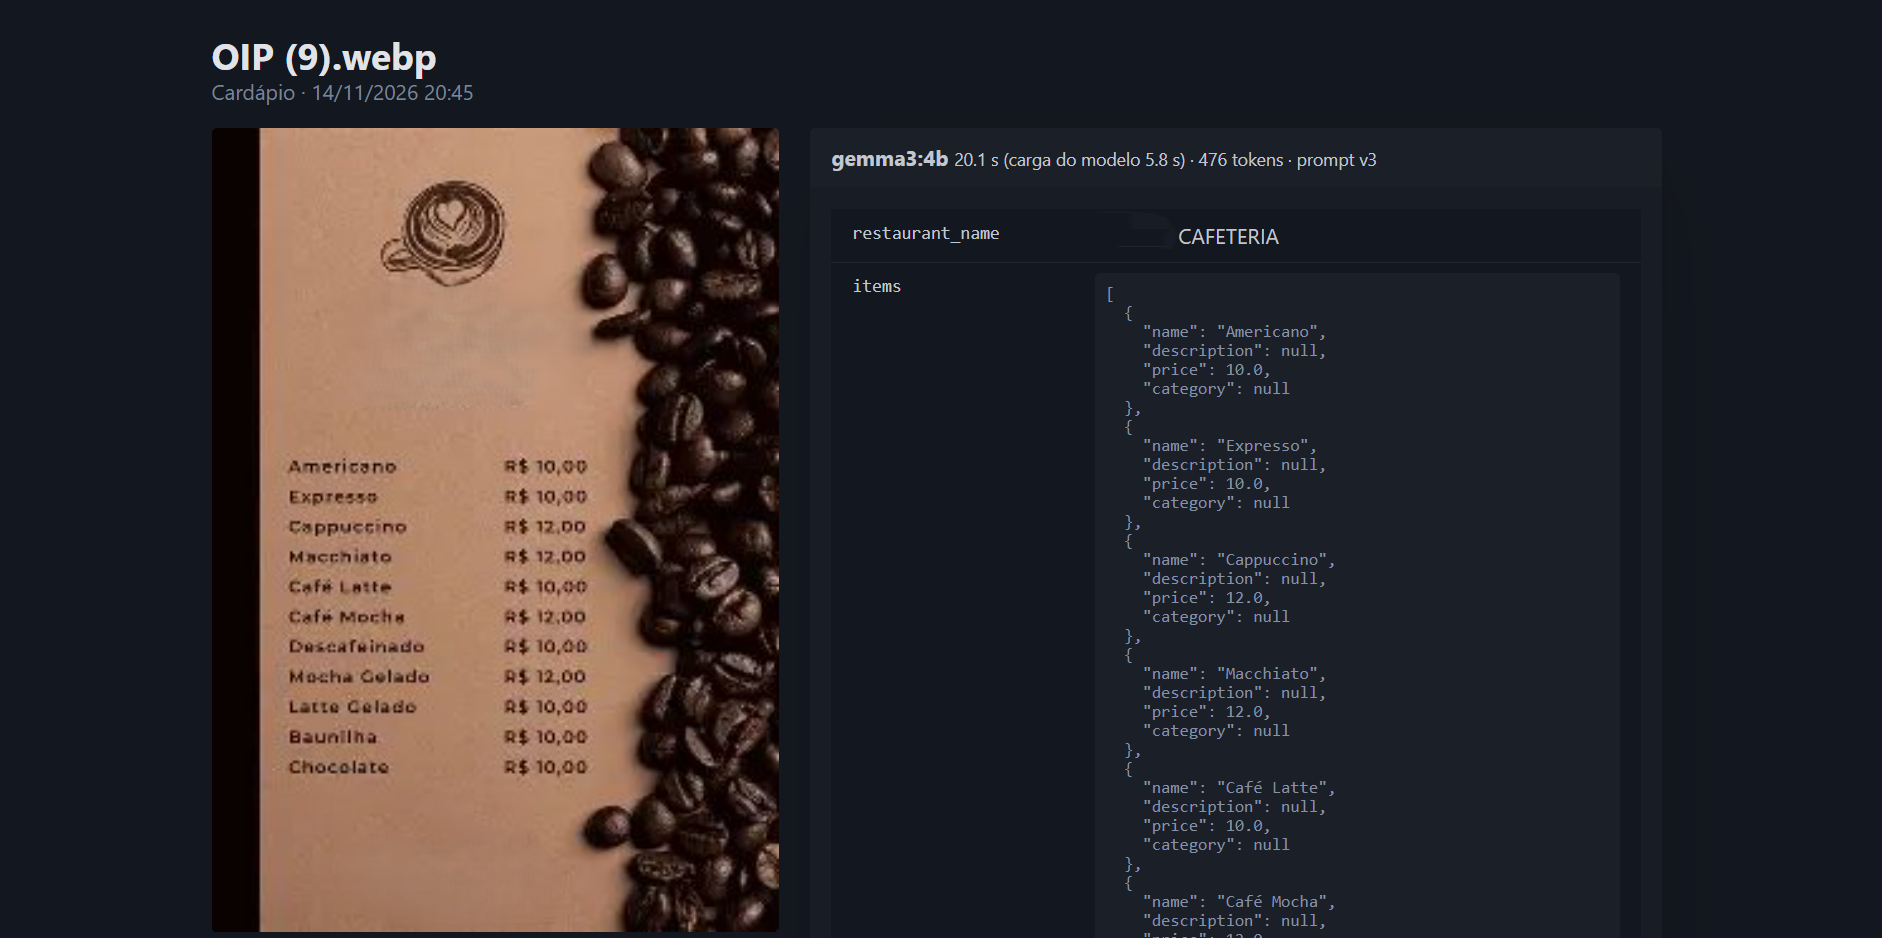
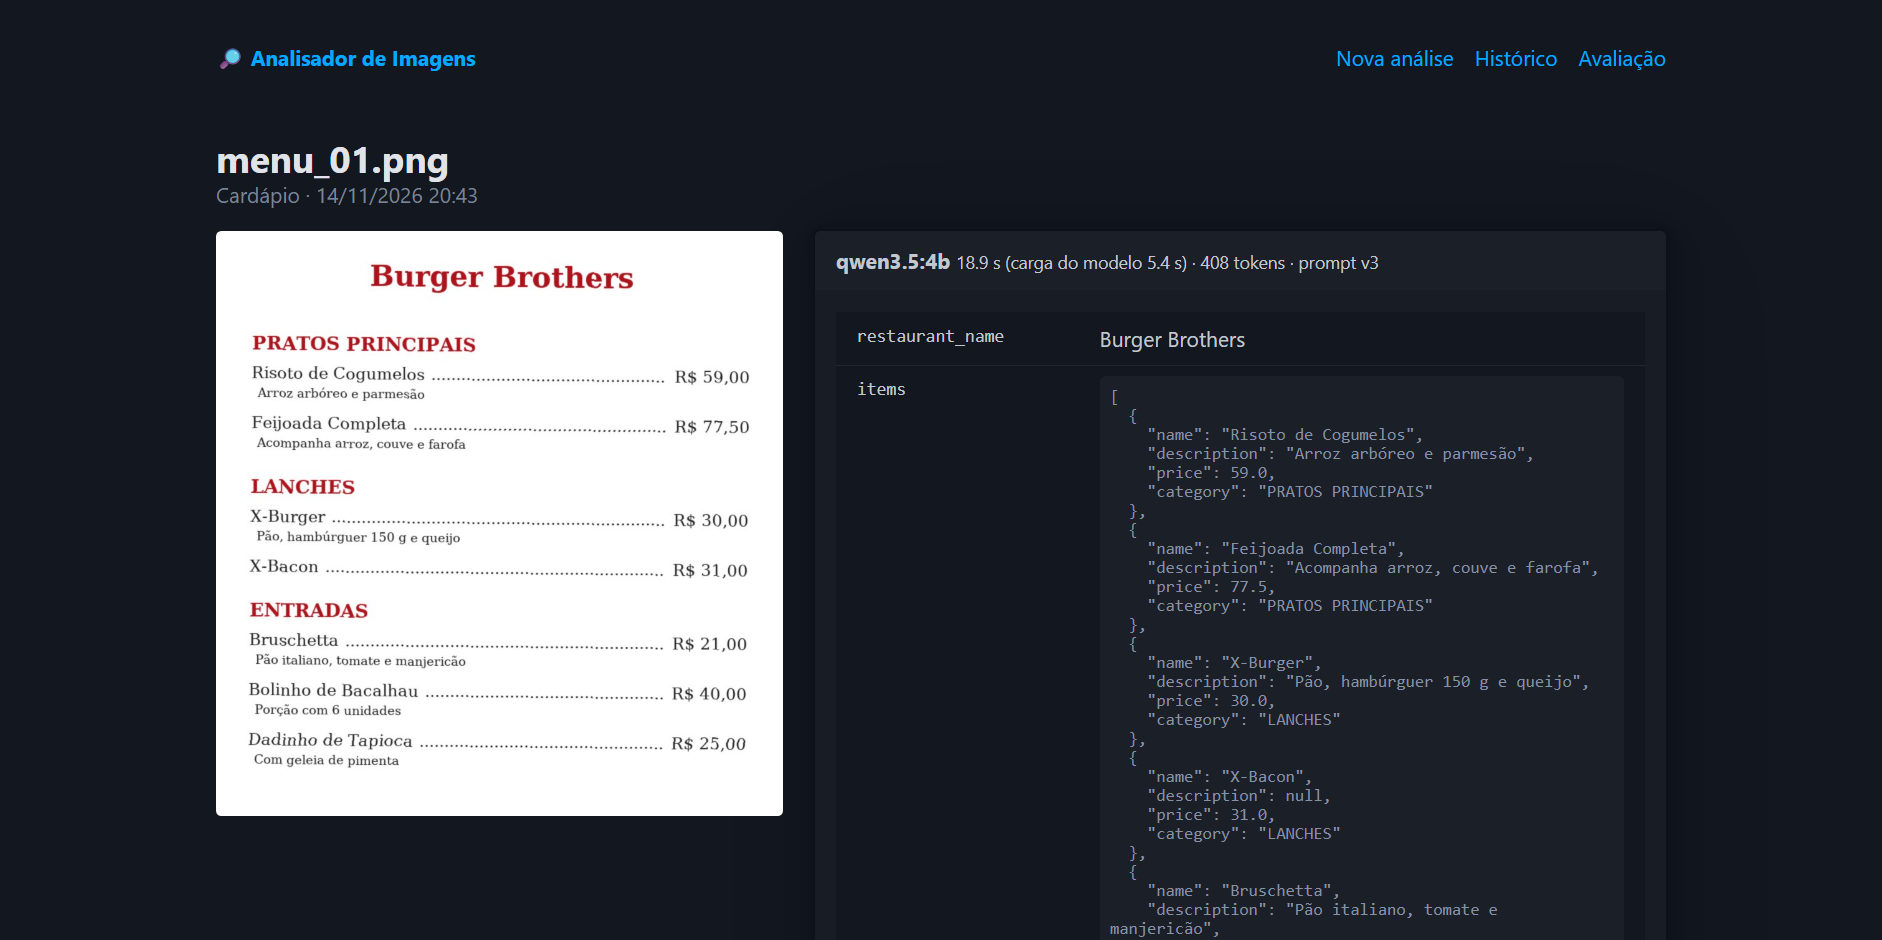
README: captura da extração usando um cardápio sintético do projeto
Substitui a captura feita com imagem de terceiros.

diff --git a/README.md b/README.md
@@ -9,7 +9,7 @@
 - Uma versão do prompt (v4) foi **testada e descartada**, com o motivo documentado.
 - FastAPI + PostgreSQL + Docker Compose, testes automatizados com pytest que rodam sem GPU.
 
-**Extração de um cardápio:** a foto à esquerda e, à direita, o JSON validado com pratos e preços, além do modelo usado, do tempo e da versão do prompt. Nome e contato do estabelecimento foram borrados.
+**Extração de um cardápio:** a foto à esquerda e, à direita, o JSON validado com pratos e preços, além do modelo usado, do tempo e da versão do prompt. O cardápio é do dataset sintético do projeto.
 
 ![Resultado da extração de um cardápio: foto à esquerda e JSON com pratos e preços à direita](docs/images/extracao-cardapio.png)
 
